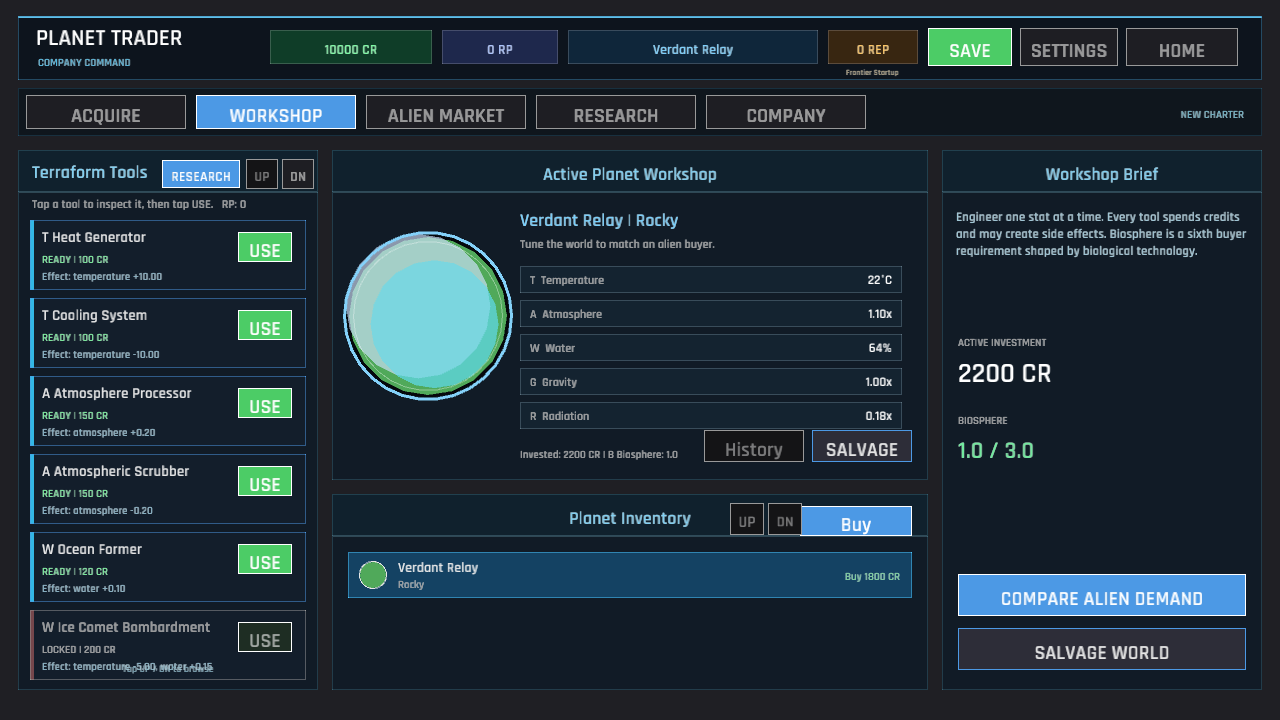
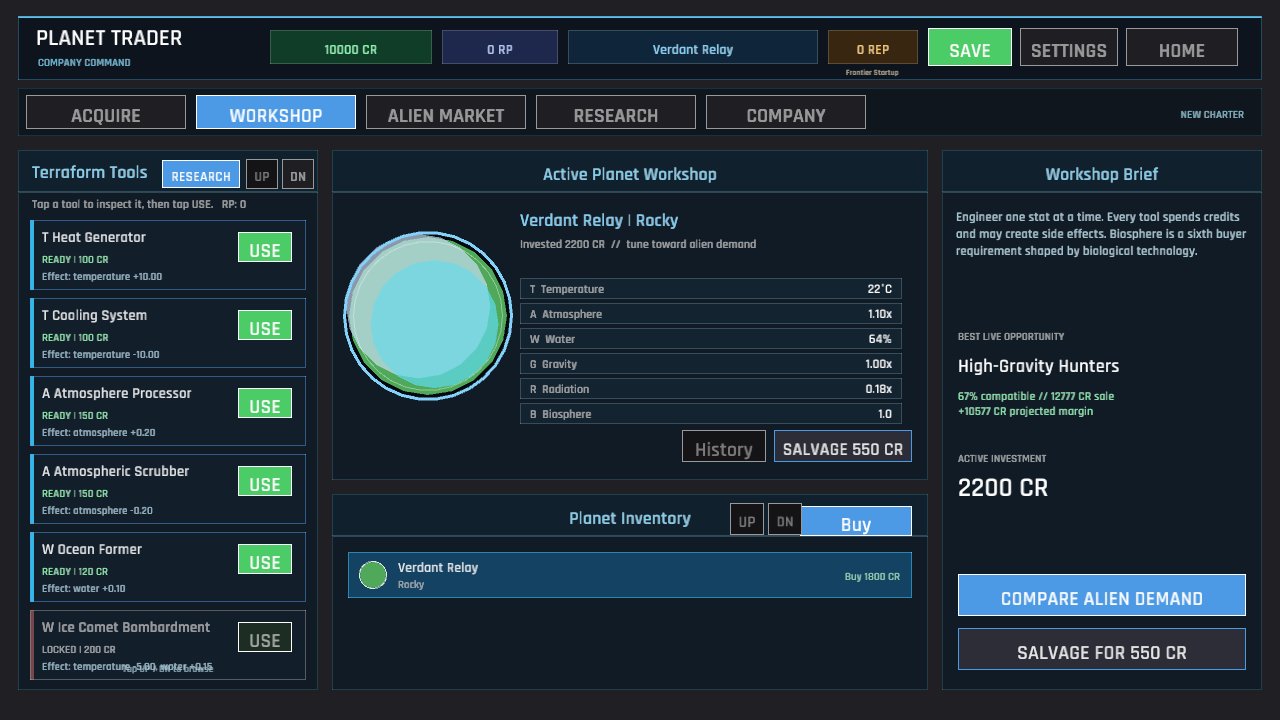
Every frontier contract arrives with a route to market (Phase 1 acquisition and workshop decision previews)
Planet offers previously asked the player to buy blind, while the Workshop exposed stats without naming the strongest live opportunity and salvage hid its recovery value until after commitment. Contract scans now compare every unmodified world against current buyers before purchase, showing compatibility, estimated sale value, and baseline margin.

The scan layout adapts from three to five reputation-earned offers without clipping. Workshop gives all six environmental systems one hierarchy, names the best live buyer and projected margin, and shows the exact 25 percent salvage recovery in both engineering and market views.

Verification covers 35 passing tests, warning-free clippy, a five-offer 1280x720 contract capture, refreshed Workshop and Market captures, the Rust file-size gate, and the required Windows/WebGL publisher.

Changed region(s): [[0.4062, 0.3361, 0.7188, 0.6417], [0.75, 0.4583, 0.875, 0.7028], [0.7812, 0.8861, 0.9375, 0.9167]]

diff --git a/src/ui/panels.rs b/src/ui/panels.rs
@@ -26,28 +26,51 @@ fn draw_workshop_brief(ctx: &UiContext<'_>, mouse: Vec2, actions: &mut Vec<UiAct
     );
     if let Some(planet) = ctx.session.current_planet() {
         draw_ui_text_ex(
+            "BEST LIVE OPPORTUNITY",
+            MARKET_PANEL.x + 16.0,
+            MARKET_PANEL.y + 190.0,
+            TextStyle::new(11.0, dark::TEXT_DIM).params(),
+        );
+        if let Some((buyer, score, estimate, profit)) =
+            best_market_route(planet, &ctx.session.alien_buyers)
+        {
+            draw_ui_text_ex(
+                &buyer.name,
+                MARKET_PANEL.x + 16.0,
+                MARKET_PANEL.y + 222.0,
+                TextStyle::new(19.0, dark::TEXT_BRIGHT).params(),
+            );
+            draw_text_block(
+                &format!(
+                    "{:.0}% compatible  //  {} CR sale\n{:+} CR projected margin",
+                    score * 100.0,
+                    estimate,
+                    profit
+                ),
+                MARKET_PANEL.x + 16.0,
+                MARKET_PANEL.y + 238.0,
+                MARKET_PANEL.w - 32.0,
+                54.0,
+                12.0,
+                3.0,
+                if score >= 0.6 {
+                    Color::new(0.46, 0.94, 0.62, 1.0)
+                } else {
+                    Color::new(1.0, 0.72, 0.36, 1.0)
+                },
+            );
+        }
+        draw_ui_text_ex(
             "ACTIVE INVESTMENT",
             MARKET_PANEL.x + 16.0,
-            MARKET_PANEL.y + 196.0,
+            MARKET_PANEL.y + 312.0,
             TextStyle::new(11.0, dark::TEXT_DIM).params(),
         );
         draw_ui_text_ex(
             &format!("{} CR", planet.invested_cost),
             MARKET_PANEL.x + 16.0,
-            MARKET_PANEL.y + 232.0,
-            TextStyle::new(28.0, dark::TEXT_BRIGHT).params(),
-        );
-        draw_ui_text_ex(
-            "BIOSPHERE",
-            MARKET_PANEL.x + 16.0,
-            MARKET_PANEL.y + 274.0,
-            TextStyle::new(11.0, dark::TEXT_DIM).params(),
-        );
-        draw_ui_text_ex(
-            &format!("{:.1} / 3.0", planet.biosphere),
-            MARKET_PANEL.x + 16.0,
-            MARKET_PANEL.y + 308.0,
-            TextStyle::new(24.0, Color::new(0.45, 0.92, 0.62, 1.0)).params(),
+            MARKET_PANEL.y + 346.0,
+            TextStyle::new(27.0, dark::TEXT_BRIGHT).params(),
         );
     }
     if button(
@@ -71,7 +94,10 @@ fn draw_workshop_brief(ctx: &UiContext<'_>, mouse: Vec2, actions: &mut Vec<UiAct
             MARKET_PANEL.w - 32.0,
             42.0,
         ),
-        "SALVAGE WORLD",
+        &ctx.session
+            .current_planet()
+            .map(|planet| format!("SALVAGE FOR {} CR", salvage_value(planet)))
+            .unwrap_or_else(|| "SALVAGE WORLD".to_owned()),
         ctx.session.current_planet().is_some(),
         ButtonTone::Secondary,
         mouse,
@@ -354,7 +380,10 @@ fn draw_workshop(ctx: &UiContext<'_>, mouse: Vec2, actions: &mut Vec<UiAction>) 
         TextStyle::new(18.0, Color::new(0.47, 0.82, 1.0, 1.0)).params(),
     );
     draw_ui_text_ex(
-        "Tune the world to match an alien buyer.",
+        &format!(
+            "Invested {} CR  //  tune toward alien demand",
+            planet.invested_cost
+        ),
         rect.x + 188.0,
         rect.y + 98.0,
         TextStyle::new(12.0, dark::TEXT_DIM).params(),
@@ -366,13 +395,14 @@ fn draw_workshop(ctx: &UiContext<'_>, mouse: Vec2, actions: &mut Vec<UiAction>) 
         ("W  Water", format!("{:.0}%", planet.water * 100.0)),
         ("G  Gravity", format!("{:.2}x", planet.gravity)),
         ("R  Radiation", format!("{:.2}x", planet.radiation)),
+        ("B  Biosphere", format!("{:.1}", planet.biosphere)),
     ];
     for (index, (label, value)) in stats.iter().enumerate() {
         let row = Rect::new(
             rect.x + 188.0,
-            rect.y + 116.0 + index as f32 * 34.0,
+            rect.y + 128.0 + index as f32 * 25.0,
             382.0,
-            27.0,
+            21.0,
         );
         draw_surface(
             row,
@@ -382,27 +412,18 @@ fn draw_workshop(ctx: &UiContext<'_>, mouse: Vec2, actions: &mut Vec<UiAction>) 
         draw_ui_text_ex(
             label,
             row.x + 10.0,
-            row.y + 18.0,
+            row.y + 15.0,
             TextStyle::new(12.0, dark::TEXT_DIM).params(),
         );
         draw_text_right(
             value,
             row.right() - 10.0,
-            row.y + 18.0,
+            row.y + 15.0,
             TextStyle::new(13.0, dark::TEXT_BRIGHT),
         );
     }
-    draw_ui_text_ex(
-        &format!(
-            "Invested: {} CR | B Biosphere: {:.1}",
-            planet.invested_cost, planet.biosphere
-        ),
-        rect.x + 188.0,
-        rect.bottom() - 22.0,
-        TextStyle::new(11.0, dark::TEXT_DIM).params(),
-    );
     if button(
-        Rect::new(rect.right() - 224.0, rect.bottom() - 50.0, 100.0, 32.0),
+        Rect::new(rect.right() - 246.0, rect.bottom() - 50.0, 84.0, 32.0),
         "History",
         !ctx.session.trade_history.is_empty(),
         ButtonTone::Muted,
@@ -411,8 +432,8 @@ fn draw_workshop(ctx: &UiContext<'_>, mouse: Vec2, actions: &mut Vec<UiAction>) 
         actions.push(UiAction::ToggleHistory);
     }
     if button(
-        Rect::new(rect.right() - 116.0, rect.bottom() - 50.0, 100.0, 32.0),
-        "SALVAGE",
+        Rect::new(rect.right() - 154.0, rect.bottom() - 50.0, 138.0, 32.0),
+        &format!("SALVAGE {} CR", salvage_value(planet)),
         true,
         ButtonTone::Secondary,
         mouse,

diff --git a/src/ui/overlays.rs b/src/ui/overlays.rs
@@ -16,7 +16,7 @@ pub(super) fn draw_purchase_modal(ctx: &UiContext<'_>, mouse: Vec2, actions: &mu
             .with_top_highlight(3.0, Color::new(0.40, 0.86, 1.0, 0.9)),
     );
     draw_ui_text_ex(
-        "Buy New Planet",
+        "Frontier Contract Scan",
         rect.x + 24.0,
         rect.y + 40.0,
         TextStyle::new(24.0, Color::new(0.48, 0.84, 1.0, 1.0)).params(),
@@ -37,12 +37,17 @@ pub(super) fn draw_purchase_modal(ctx: &UiContext<'_>, mouse: Vec2, actions: &mu
         actions.push(UiAction::ClosePurchase);
     }
 
+    let offer_count = ctx.session.planet_options.len().max(1);
+    let card_gap = 8.0;
+    let card_height = ((530.0 - card_gap * (offer_count.saturating_sub(1)) as f32)
+        / offer_count as f32)
+        .clamp(94.0, 148.0);
     for (index, planet) in ctx.session.planet_options.iter().enumerate() {
         let card = Rect::new(
             rect.x + 24.0,
-            rect.y + 82.0 + index as f32 * 136.0,
+            rect.y + 82.0 + index as f32 * (card_height + card_gap),
             rect.w - 48.0,
-            118.0,
+            card_height,
         );
         draw_surface(
             card,
@@ -52,20 +57,20 @@ pub(super) fn draw_purchase_modal(ctx: &UiContext<'_>, mouse: Vec2, actions: &mu
         draw_circle(
             card.x + 48.0,
             card.center().y,
-            31.0,
+            27.0,
             hex_to_color(&planet.color),
         );
-        draw_circle_lines(card.x + 48.0, card.center().y, 31.0, 2.0, dark::TEXT);
+        draw_circle_lines(card.x + 48.0, card.center().y, 27.0, 2.0, dark::TEXT);
         draw_ui_text_ex(
             &planet.name,
             card.x + 94.0,
-            card.y + 28.0,
+            card.y + 24.0,
             TextStyle::new(18.0, dark::TEXT).params(),
         );
         draw_ui_text_ex(
             &format!("Type: {}", planet.planet_type.name),
             card.x + 94.0,
-            card.y + 49.0,
+            card.y + 43.0,
             TextStyle::new(12.0, dark::TEXT_DIM).params(),
         );
         draw_ui_text_ex(
@@ -79,18 +84,42 @@ pub(super) fn draw_purchase_modal(ctx: &UiContext<'_>, mouse: Vec2, actions: &mu
                 planet.biosphere
             ),
             card.x + 94.0,
-            card.y + 76.0,
+            card.y + 63.0,
             TextStyle::new(12.0, Color::new(0.60, 0.78, 0.82, 1.0)).params(),
         );
+        if let Some((buyer, score, estimate, profit)) =
+            best_market_route(planet, &ctx.session.alien_buyers)
+        {
+            draw_ui_text_ex(
+                &format!(
+                    "Best route: {}  |  {:.0}%  |  {} CR  |  {:+} CR",
+                    buyer.name,
+                    score * 100.0,
+                    estimate,
+                    profit
+                ),
+                card.x + 94.0,
+                card.y + 84.0,
+                TextStyle::new(
+                    11.0,
+                    if score >= 0.6 {
+                        Color::new(0.46, 0.94, 0.62, 1.0)
+                    } else {
+                        Color::new(1.0, 0.72, 0.36, 1.0)
+                    },
+                )
+                .params(),
+            );
+        }
         let affordable = ctx.session.credits >= planet.purchase_price;
         draw_text_right(
             &format!("{} CR", planet.purchase_price),
             card.right() - 116.0,
-            card.y + 32.0,
+            card.y + 28.0,
             TextStyle::new(18.0, Color::new(0.48, 1.0, 0.62, 1.0)),
         );
         if button(
-            Rect::new(card.right() - 106.0, card.y + 52.0, 90.0, 38.0),
+            Rect::new(card.right() - 106.0, card.y + 46.0, 90.0, 36.0),
             if affordable { "BUY" } else { "TOO EXPENSIVE" },
             affordable,
             ButtonTone::Positive,
@@ -100,7 +129,7 @@ pub(super) fn draw_purchase_modal(ctx: &UiContext<'_>, mouse: Vec2, actions: &mu
         }
     }
     draw_ui_text_ex(
-        "Each offer is a randomly generated world. Buy it, select it from inventory, and match a buyer.",
+        "Routes compare the unmodified world against today's buyers. Orange routes need engineering before they can sell.",
         rect.x + 26.0,
         rect.bottom() - 20.0,
         TextStyle::new(12.0, dark::TEXT_DIM).params(),

diff --git a/src/state.rs b/src/state.rs
@@ -457,7 +457,7 @@ impl GameSession {
                 investment_cost(planet),
             )
         };
-        let salvage_price = ((invested_cost as f32) * 0.25).round().max(100.0) as i64;
+        let salvage_price = salvage_value_for_investment(invested_cost);
         let profit = salvage_price - invested_cost;
         self.credits += salvage_price;
         self.stats.planets_salvaged += 1;
@@ -583,6 +583,10 @@ pub fn potential_profit(planet: &Planet, buyer: &AlienBuyer) -> i64 {
     sale_price(planet, buyer) - investment_cost(planet)
 }
 
+pub fn salvage_value(planet: &Planet) -> i64 {
+    salvage_value_for_investment(investment_cost(planet))
+}
+
 pub fn market_trend_percent(buyer: &AlienBuyer) -> f32 {
     if buyer.base_price <= 0 {
         0.0
@@ -645,6 +649,10 @@ fn reputation_for_sale(profit: i64, compatibility_score: f32) -> i64 {
     let quality = (compatibility_score.clamp(0.0, 1.0) * 10.0).round() as i64;
     let profit_bonus = (profit.max(0) / 2_000).min(8);
     4 + quality + profit_bonus
+}
+
+fn salvage_value_for_investment(invested_cost: i64) -> i64 {
+    ((invested_cost.max(0) as f32) * 0.25).round().max(100.0) as i64
 }
 
 fn investment_cost(planet: &Planet) -> i64 {

diff --git a/src/ui.rs b/src/ui.rs
@@ -3,8 +3,8 @@
 use crate::data::{GameData, Tool};
 use crate::state::{
     company_rank, compatibility, contract_option_count, market_trend_percent, potential_profit,
-    projected_research_points, sale_price, tool_is_locked, AlienBuyer, GameSession, Planet,
-    TutorialStep,
+    projected_research_points, sale_price, salvage_value, tool_is_locked, AlienBuyer, GameSession,
+    Planet, TutorialStep,
 };
 use macroquad::prelude::*;
 use macroquad_toolkit::prelude::*;
@@ -328,6 +328,24 @@ fn effect_summary(effects: &std::collections::HashMap<String, f32>) -> String {
             .collect::<Vec<_>>()
             .join(", ")
     }
+}
+
+fn best_market_route<'a>(
+    planet: &Planet,
+    buyers: &'a [AlienBuyer],
+) -> Option<(&'a AlienBuyer, f32, i64, i64)> {
+    buyers
+        .iter()
+        .map(|buyer| {
+            let score = compatibility(planet, buyer);
+            let price = sale_price(planet, buyer);
+            (buyer, score, price, price - planet.invested_cost)
+        })
+        .max_by(|left, right| {
+            left.1
+                .total_cmp(&right.1)
+                .then_with(|| left.3.cmp(&right.3))
+        })
 }
 
 fn hex_to_color(value: &str) -> Color {

diff --git a/src/game.rs b/src/game.rs
@@ -284,6 +284,10 @@ impl Game {
                 },
             ];
         }
+        if scene == "contracts" {
+            self.session.reputation = 60;
+            let _ = self.session.open_purchase_modal(&self.data);
+        }
         self.save_exists = false;
         self.reset_view();
         self.research_open = seed.research_open;
@@ -294,7 +298,7 @@ impl Game {
             "research" => GameplayMode::Research,
             "tutorial_market" | "market" => GameplayMode::Market,
             "biosphere" => GameplayMode::Workshop,
-            "tutorial_buy" | "tutorial" | "acquisition" => GameplayMode::Acquire,
+            "tutorial_buy" | "tutorial" | "acquisition" | "contracts" => GameplayMode::Acquire,
             "company" => GameplayMode::Company,
             _ => GameplayMode::Workshop,
         };

diff --git a/README.md b/README.md
@@ -12,6 +12,9 @@ tools, compare them with alien buyers, and sell a compatible planet for profit.
 - Persistent, action-driven orientation that follows real player actions.
 - Functional display/readability settings, tutorial restart, and save management.
 - Randomized planet offers with planet types, names, stats, colors, and prices.
+- Contract scans compare every unmodified world against the best live buyer
+  route before purchase; Workshop shows the best current deal and exact
+  salvage recovery before further investment.
 - Planet inventory with active-planet selection.
 - Fifteen terraforming tools with costs, primary effects, side effects, and
   locked research requirements.

diff --git a/docs/PHASE_1_DESIGN.md b/docs/PHASE_1_DESIGN.md
@@ -64,4 +64,6 @@ pushed. Internal hardening supports a slice but is never the slice itself.
 - Navigation and visual language: command-deck modes shipped and verified.
 - Market/biosphere and company/research depth: six-axis demand, attainable RP,
   reputation ranks, and expanding contract reach shipped.
-- Acquisition/workshop decision previews and final finish/proof: next.
+- Acquisition/workshop decision previews: live buyer routes, best-deal margins,
+  six-stat workshop hierarchy, and disclosed salvage recovery shipped.
+- Final finish/proof: next.
